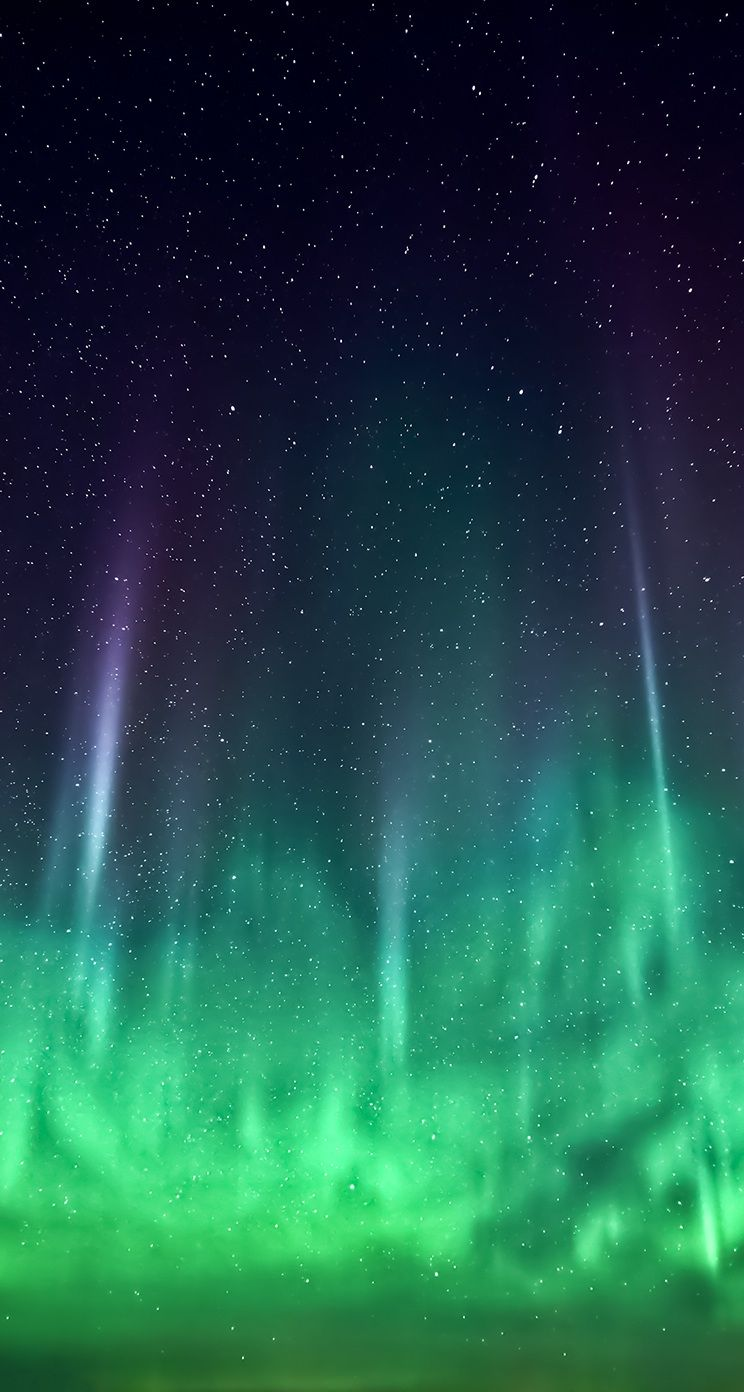
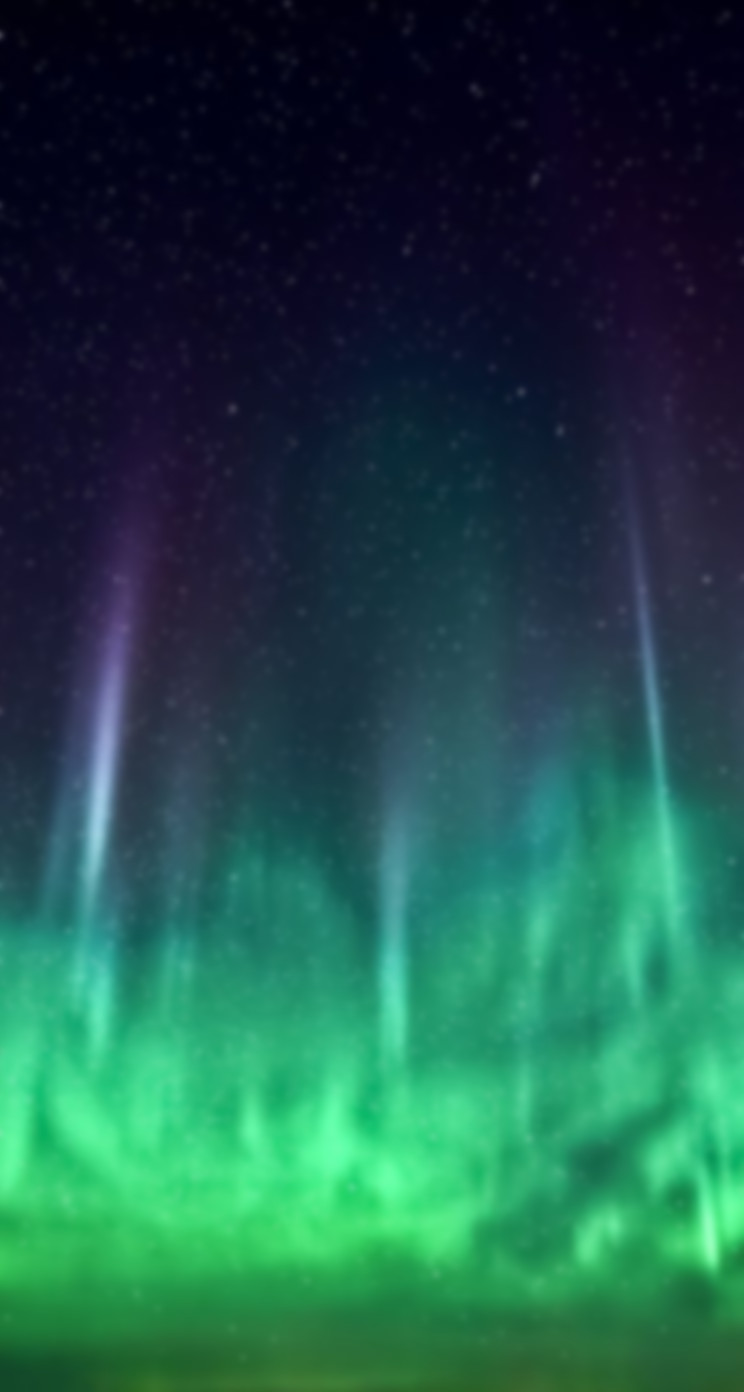
Updated template and added Twitter integration

diff --git a/index.js b/index.js
@@ -1,4 +1,13 @@
 const webshot = require('webshot');
+const Twitter = require('twitter');
+
+const messages = [
+    'WINTER IS COMING. SEEK SHELTER IMMEDIATELY. THIS IS NOT A DRILL.',
+    'THE ROBBER IS COMING. HIDE YOUR RESOURCES. A SEVEN WAS ROLLED.',
+];
+
+const selectedMessage = messages[Math.floor(Math.random() * messages.length)];
+
 const options = {
     windowSize: {
         // Twitter card size
@@ -6,13 +15,13 @@ const options = {
         height: 512,
     },
     onLoadFinished: {
-        fn: function() {
+        fn: function () {
             document.getElementById('text').innerText = this.text;
+            document.getElementById('minsAgo').innerText = this.minsAgo;
         },
         context: {
-            // TODO: figure out text to pass to template
-            text: 'WINTER IS COMING. SEEK IMMEDIATE SHELTER. THIS IS NOT A DRILL.',
-            // TODO: Add a random 'N mins ago'
+            text: selectedMessage,
+            minsAgo: Math.ceil(Math.random() * 57) + 1
         }
     }
 };
@@ -22,5 +31,33 @@ const iosEmergencyAlertsTemplate = ['file://']
     .concat(['iosEmergencyAlerts', 'template.html'])
     .join('/');
 
-// TODO: change logic to not use temp file if possible, then tweet resulting image
-webshot(iosEmergencyAlertsTemplate, 'test.png', options, console.error);
+const imageFilename = 'image.png'
+webshot(iosEmergencyAlertsTemplate, imageFilename, options, (err) => {
+    var data = require('fs').readFileSync(imageFilename);
+
+    const client = new Twitter({
+        consumer_key: process.env.CONSUMER_KEY,
+        consumer_secret: process.env.CONSUMER_SECRET,
+        access_token_key: process.env.ACCESS_TOKEN_KEY,
+        access_token_secret: process.env.ACCESS_TOKEN_SECRET,
+    });
+    
+    client.post('media/upload', { media: data }, function (error, media, response) {
+        if (!error) {
+            var status = {
+                status: ['Emergency Alert', selectedMessage].join('\n'),
+                media_ids: media.media_id_string // Pass the media id string
+            }
+
+            client.post('statuses/update', status, function (error, tweet, response) {
+                if (!error) {
+                    console.log(tweet.text);
+                } else {
+                    console.log(error);
+                }
+            });
+        } else {
+            console.error(error);
+        }
+    });
+});

diff --git a/iosEmergencyAlerts/template.html b/iosEmergencyAlerts/template.html
@@ -1,43 +1,23 @@
 <html>
     <head>
-        <style type="text/css">
-            body {
-                background-image: url('background.jpg');
-                background-size: cover;
-                background-position-y: center;
-                font-family: sans-serif;
-                margin: 0;
-            }
-
-            .alert {
-                background-color: rgba(255, 255, 255, 0.60);
-                margin: 2rem;
-                overflow: hidden;
-            }
-
-            .heading {
-                background-color: rgba(255, 255, 255, 0.50);
-            }
-
-            .heading .time {
-                float: right;
-            }
-        </style>
+        <link rel="stylesheet" href="style.css"/>
     </head>
     <body>
+        <div class="background"></div>
         <div class="alert">
             <div class="heading">
                 <div class="time">
-                        <span id="minAgo"/>m ago
+                        <span id="minsAgo">2</span>m ago
                 </div>
                 <div class="appTitle">
-                    <img src="data:" alt="app icon"/>
+                    <img src="icon.png" alt="app icon"/>
                     EMERGENCY ALERTS
                 </div>
             </div>
-            <div id="text">
+            <h1>Emergency Alert</h1>
+            <p id="text">
                 WINTER IS COMING. SEEK IMMEDIATE SHELTER. THIS IS NOT A DRILL.
-            </div>
+            </p>
         </div>
     </body>
 </html>

diff --git a/iosEmergencyAlerts/style.css b/iosEmergencyAlerts/style.css
@@ -1,0 +1,54 @@
+html {
+    font-size: 20px;
+}
+
+body {
+    font-family: 'Helvetica Neue', sans-serif;
+    margin: 0;
+    background-color: black;
+}
+.background {
+    background-image: url('background.jpg');
+    background-size: cover;
+    background-position-y: center;
+    z-index: 1;
+    position: fixed;
+    top: 0;
+    right: 0;
+    bottom: 0;
+    left: 0;
+}
+
+.alert {
+    position: fixed;
+    z-index: 9999;
+    background-color: rgba(255, 255, 255, 0.60);
+    margin: 5rem 2rem;
+    overflow: hidden;
+    border-radius: 30px;
+    padding: 1.5rem;
+}
+
+.heading {
+    font-size: 1.6rem;
+}
+
+.heading img {
+    vertical-align: middle;
+    padding-bottom: 5px;
+}
+
+.heading .time {
+    float: right;
+    font-size: 0.8em
+}
+
+.alert h1 {
+    margin: 1rem 0 0;
+    font-weight: 450;
+}
+
+.alert p {
+    font-size: 2rem;
+    margin: 0;
+}
